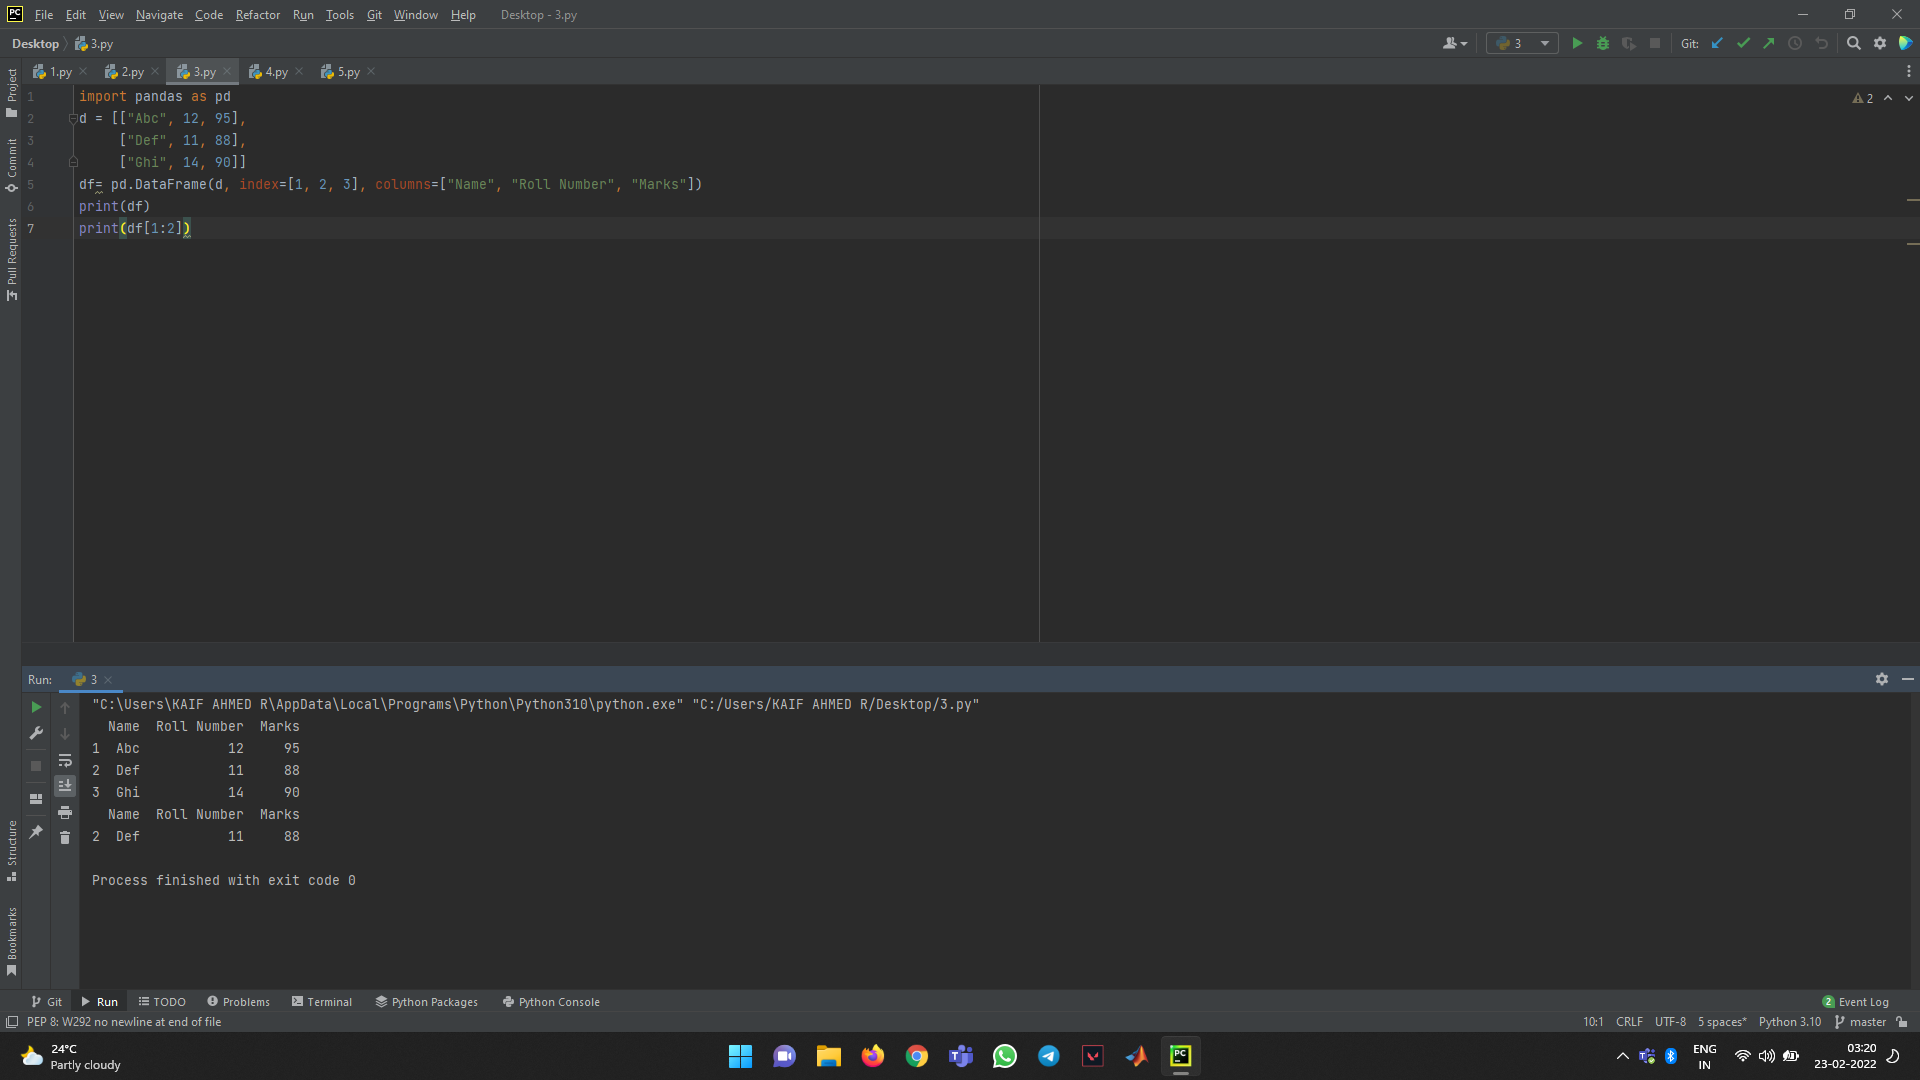
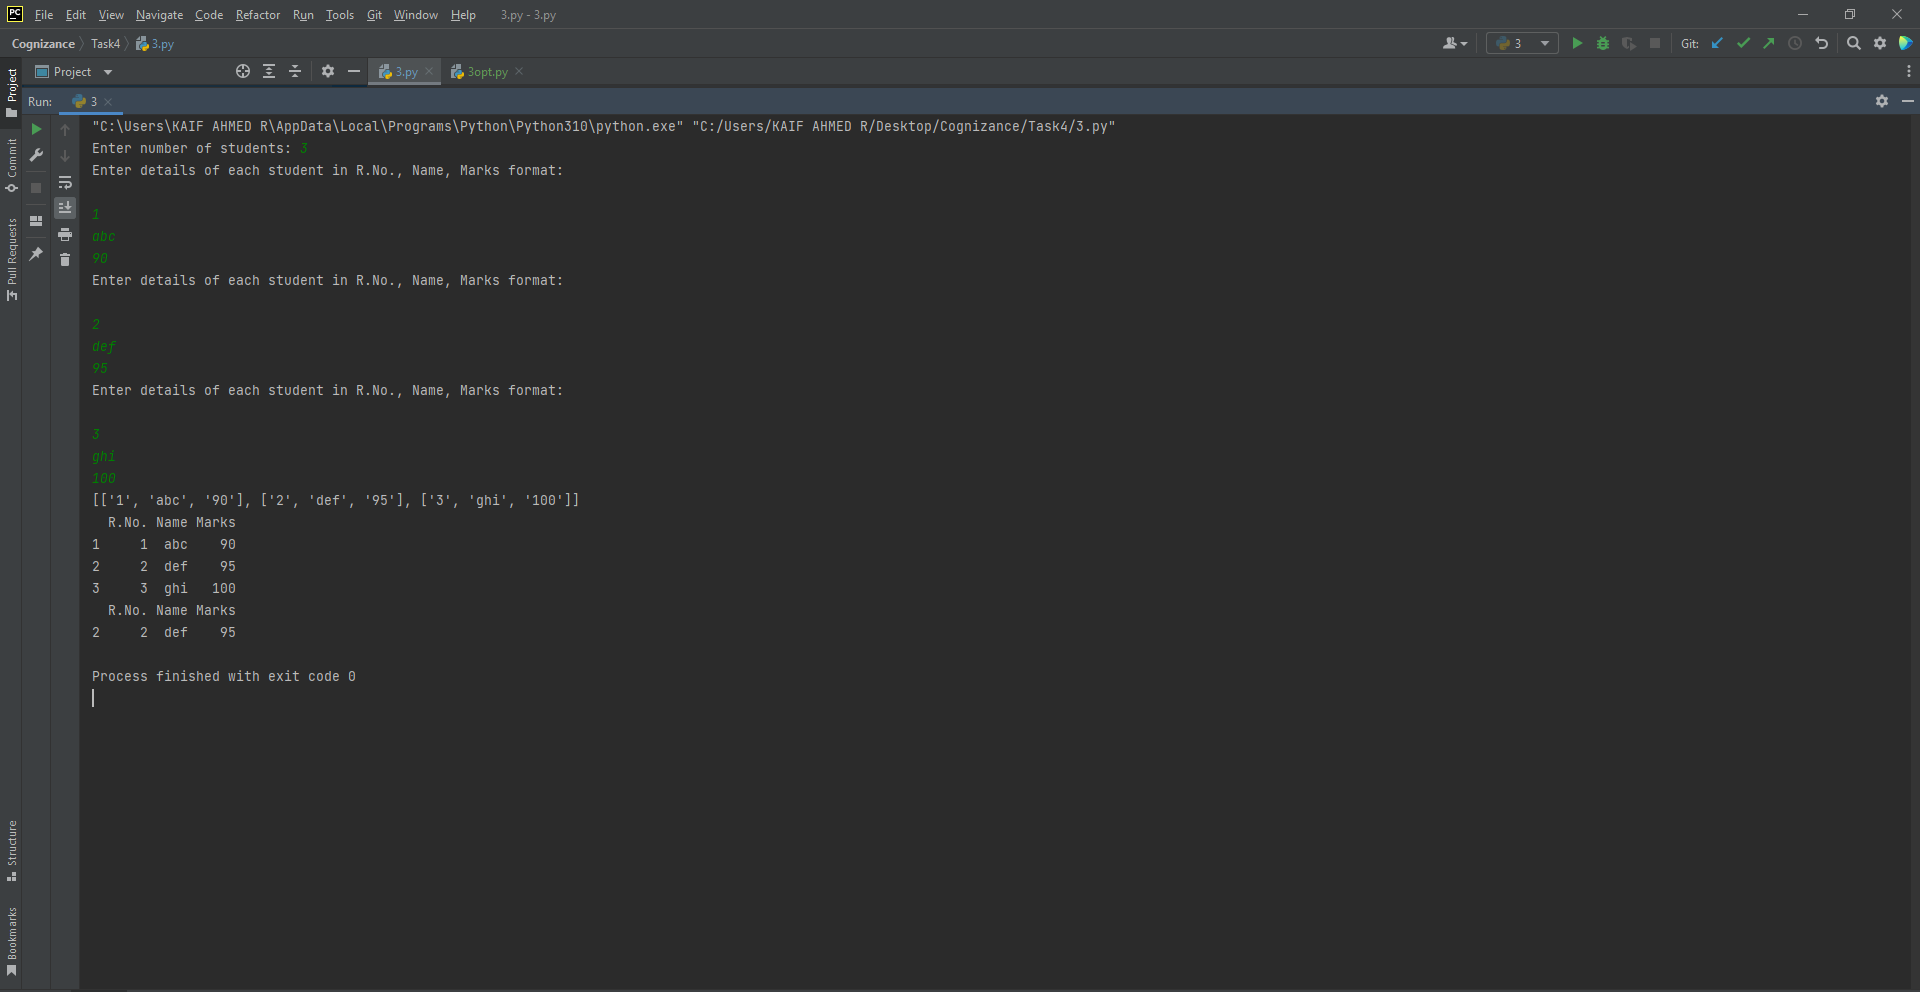
Task-4

diff --git a/Task4/3.py b/Task4/3.py
@@ -1,10 +1,18 @@
-# Importing pandas library into the program with the object name or reference as pd
+
 import pandas as pd
-# Creating a List
-d = [["Abc", 12, 95],
-     ["Def", 11, 88],
-     ["Ghi", 14, 90]]
-df= pd.DataFrame(d, index=[1, 2, 3], columns=["Name", "Roll Number", "Marks"])
+table = []
+
+count = int(input("Enter number of students: "))
+
+for i in range(0,3):
+    print("Enter details of each student in R.No., Name, Marks format: \n")
+    table.append([])
+    for j in range(0, count):
+        Enter_details = input()
+        table[i].append(Enter_details)
+
+print(table)
+df = pd.DataFrame(table, index=[1, 2, 3], columns=["R.No.", "Name", "Marks"])
 print(df)
-#Printing the second row/ record from the table created
 print(df[1:2])
+

diff --git a/Task4/3opt.py b/Task4/3opt.py
@@ -1,0 +1,8 @@
+
+import pandas as pd
+d = [["Abc", 12, 95],
+      ["Def", 11, 88],
+      ["Ghi", 14, 90]]
+df= pd.DataFrame(d, index=[1, 2, 3], columns=["Name", "Roll Number", "Marks"])
+print(df)
+print(df[1:2])
